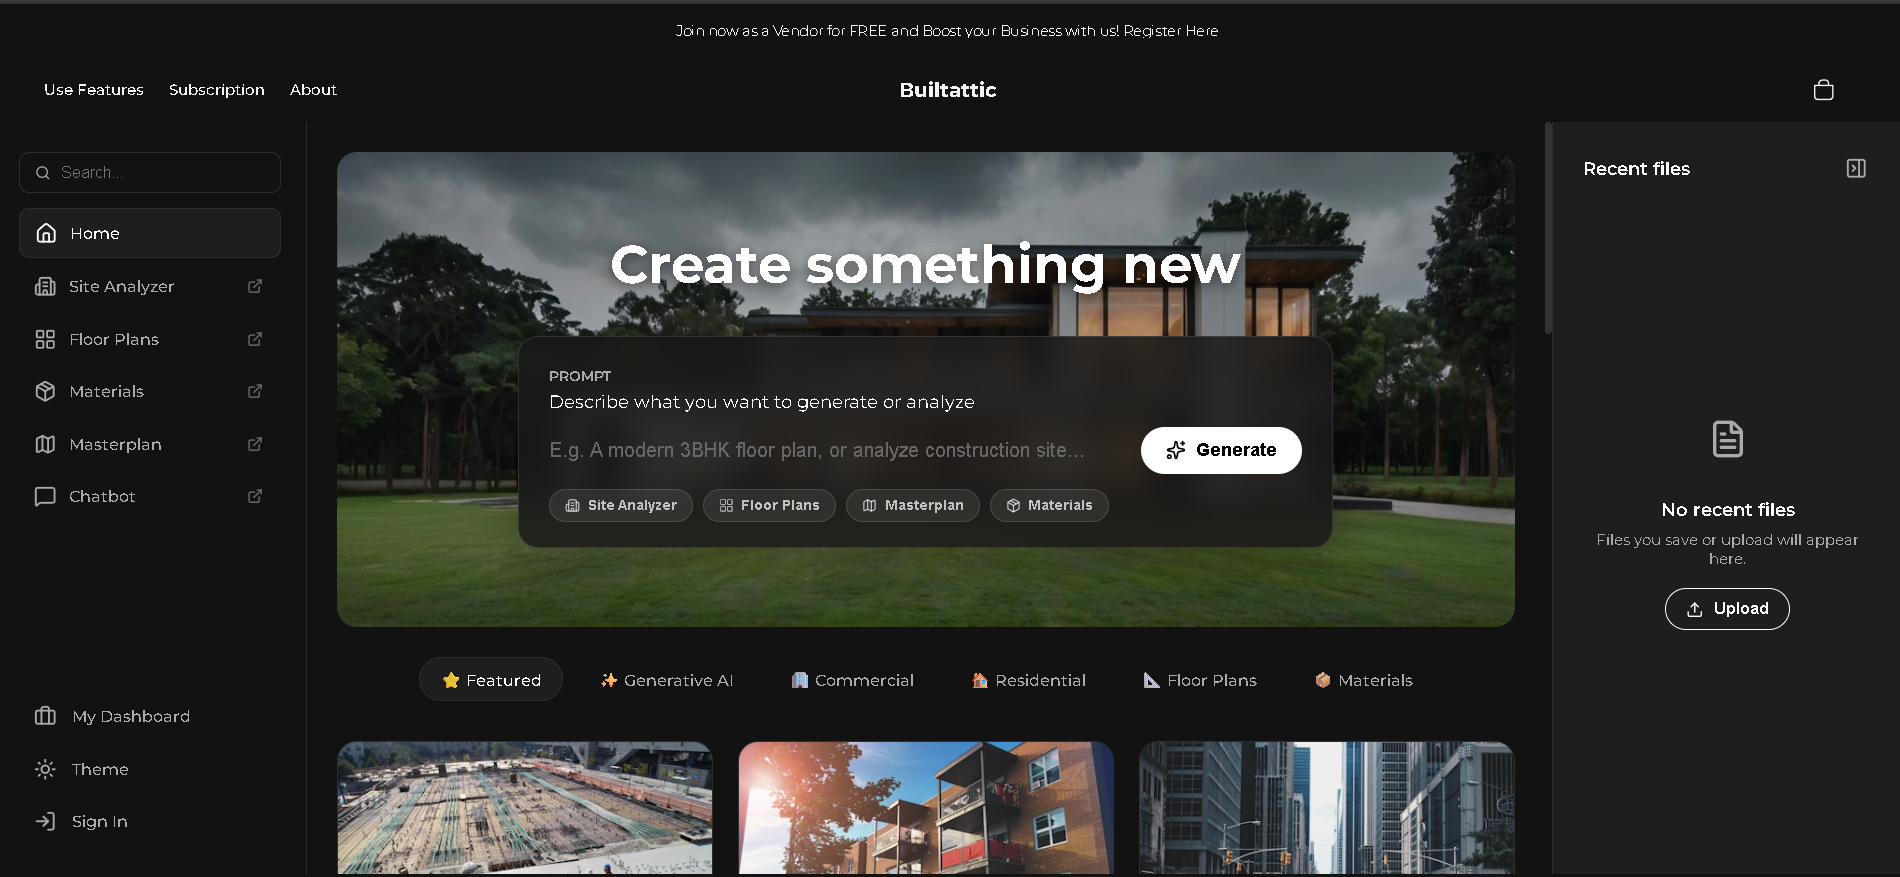
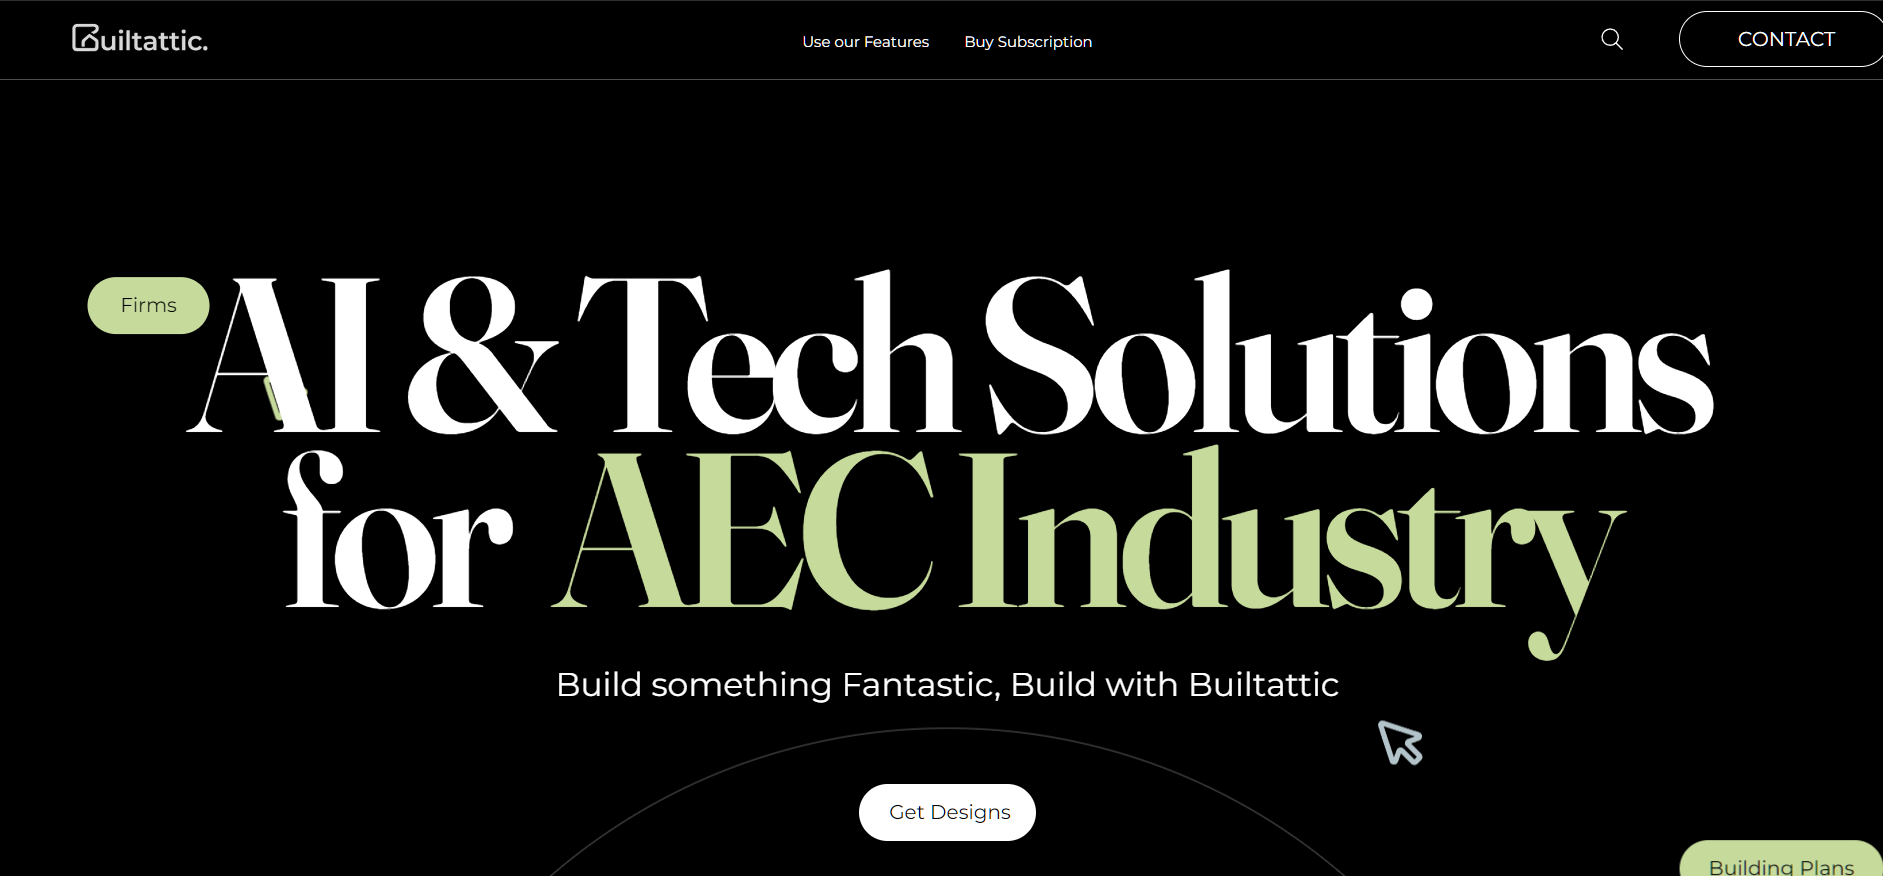
fix: update Builtattic project link and improve asset references

diff --git a/src/components/Projects.jsx b/src/components/Projects.jsx
@@ -27,7 +27,7 @@ const PROJECTS = [
       'The pipeline ingests site images and dimensions, extracts constraints with computer vision, and synthesizes multiple layout options with zoning and circulation logic.',
     accent: '#7c86ff',
     image: builtatticImage,
-    primaryLink: 'https://www.builtattic.com/',
+    primaryLink: 'https://www.builtattic.info/',
     imageFit: 'contain',
     imageBg: 'rgba(8, 12, 22, 0.7)',
     imagePadding: '0.75rem',
@@ -43,8 +43,7 @@ const PROJECTS = [
       'Evaluation loop to score layouts for circulation and adjacency',
     ],
     links: [
-      { label: 'Builtattic Info', url: 'https://www.builtattic.info/' },
-      { label: 'Builtattic', url: 'https://www.builtattic.com/' },
+      { label: 'Info One', url: 'https://www.builtattic.info/' },
     ],
     details: [
       'Dynamic product narrative with interactive sections',